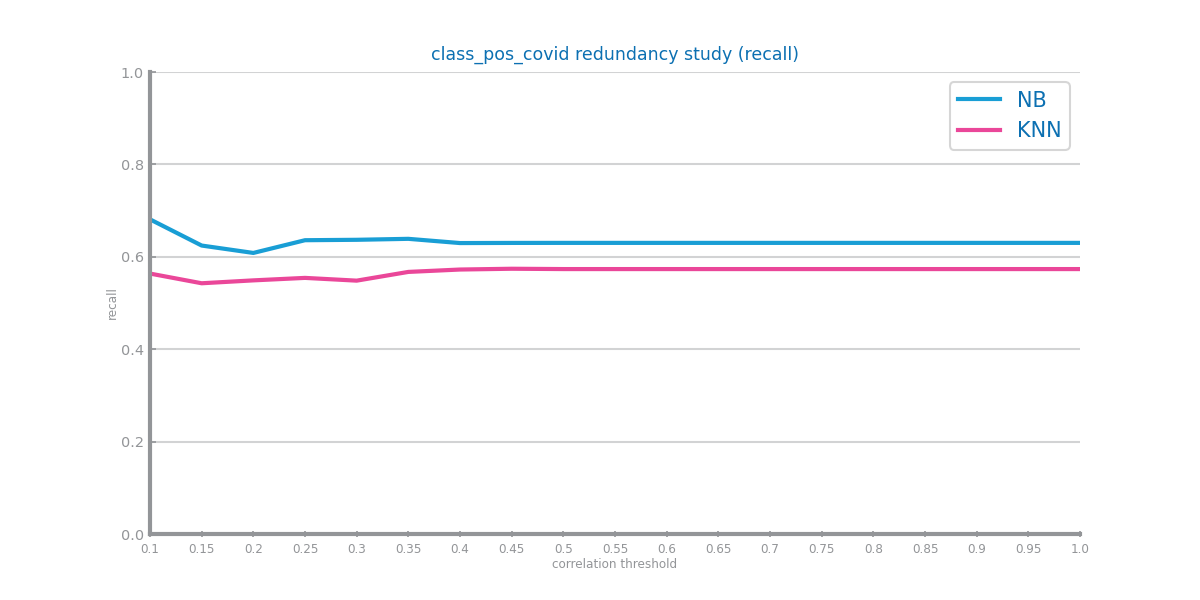
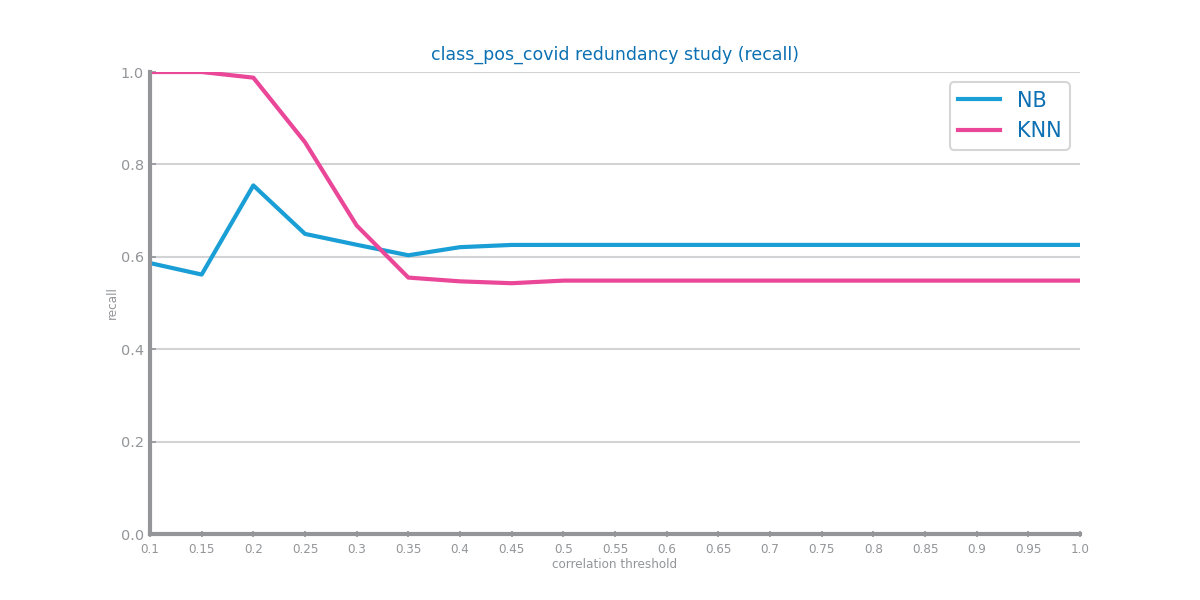
Fixed parts of classification preparation study for covid

diff --git a/classification/data_preparation/pos_covid/07_feature_selection.py b/classification/data_preparation/pos_covid/07_feature_selection.py
@@ -24,7 +24,7 @@ if run_sampling:
 # ------------------
 
 vars2drop: list[str] = select_low_variance_variables(
-    pos_covid_train, max_threshold=0.8, target=target
+    pos_covid_train, max_threshold=0.9, target=target
 )
 train_cp, test_cp = apply_feature_selection(
     pos_covid_train, pos_covid_test, vars2drop, filename=f"../../data/pos_covid/processed_data/{pos_covid_file_tag}",
@@ -38,7 +38,7 @@ print(f"After low variance FS: train_cp={train_cp.shape}, test_cp={test_cp.shape
 # ------------------
 
 vars2drop: list[str] = select_redundant_variables(
-    pos_covid_train, min_threshold=0.45, target=target
+    pos_covid_train, min_threshold=0.2, target=target
 )
 train_cp, test_cp = apply_feature_selection(
     pos_covid_train, pos_covid_test, vars2drop, filename=f"../../data/pos_covid/processed_data/{pos_covid_file_tag}",

diff --git a/classification/data_preparation/pos_covid/data_preparation_study.py b/classification/data_preparation/pos_covid/data_preparation_study.py
@@ -10,11 +10,11 @@ eval_metric = "accuracy"
 run_sampling = False
 sampling_amount = 0.01 if run_sampling else 1
 
-run_mv_imputation_study = True
-run_outliers_treatment_study = True
-run_scaling_study = True
-run_balancing_study = True
-run_feature_selection_preliminary_study = True
+run_mv_imputation_study = False
+run_outliers_treatment_study = False
+run_scaling_study = False
+run_balancing_study = False
+run_feature_selection_preliminary_study = False
 run_feature_selection_study = True
 
 sample_tag = f"_1_{int(1 / sampling_amount)}th" if run_sampling else ""
